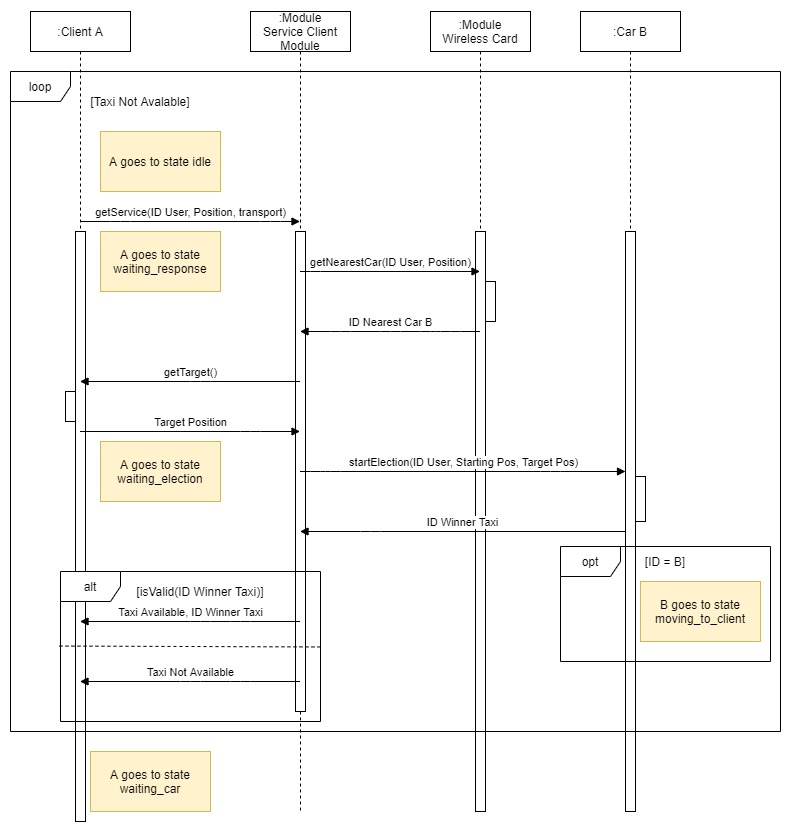
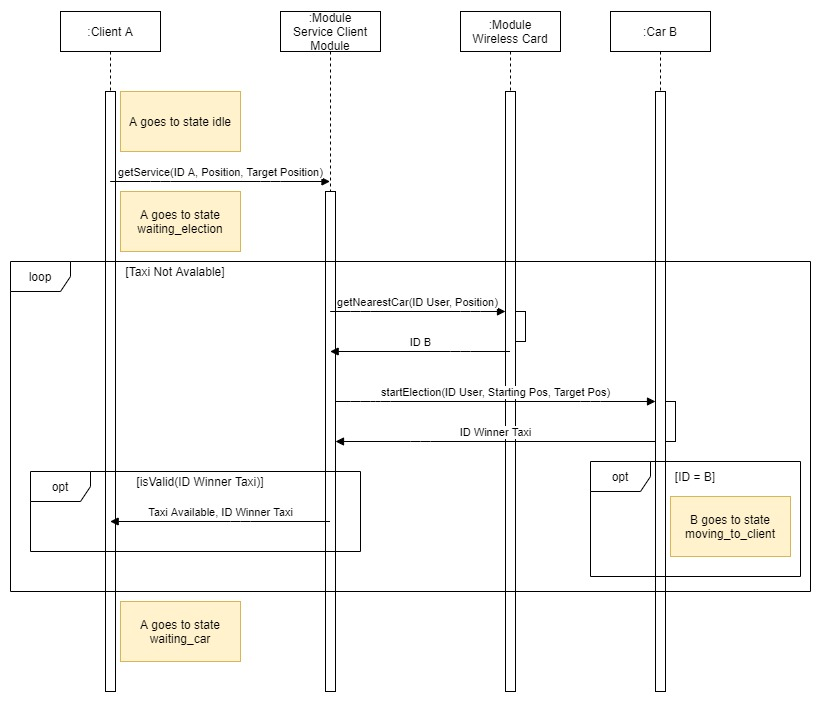
Gestione automi

diff --git a/relazione/progetto.tex b/relazione/progetto.tex
@@ -20,7 +20,7 @@ Qui di seguito sono descritti i vari moduli che si intende implementare per il p
 	
 	\item Modulo per l'invio di messaggi: controlla che il messaggio sia ben formato.
 	
-	\item Modulo interfaccia cliente-servizio: rappresenta l'app che utilizzerebbe l'utente per usufruire del servizio. In tal senso, fornisce le operazioni che un cliente può richiedere al sistema e comunica all'entità cliente gli eventuali messaggi.
+	\item Modulo interfaccia cliente-servizio: rappresenta l'app che utilizzerebbe l'utente per usufruire del servizio. In tal senso, fornisce le operazioni che un cliente può richiedere al sistema e comunica all'entità cliente gli eventuali messaggi.tre
 	
 	\item Modulo scheda wireless: simula la scheda di rete che fornisce i vicini dell'entità che ne invoca i metodi.
 	
@@ -215,8 +215,8 @@ L'aggiornamento può avvenire in diversi momenti e stati della macchina.
 All'appendice \ref{messaggi_scambiati_appendix}, sono presenti i diagrammi di sequenza dei messaggi che vengono scambiati tra i diversi moduli per permettere le funzionalità del sistema.
 
 \begin{itemize}
-	\item Movimento del taxi alla posizione dell'utente e successivo trasporto \ref{fig:messaggi_utente_trasporto}.
 	\item Richiesta da parte dell'utente del servizio di trasporto \ref{fig:messaggi_utente_chiede_macchina}.
+	\item Movimento del taxi alla posizione dell'utente e successivo trasporto \ref{fig:messaggi_utente_trasporto}.
 	\item Richiesta di cambiamento di destinazione da parte dell'utente mentre il taxi è in viaggio verso l'utente \ref{fig:messaggi_utente_cambio_direzione_waiting}.
 	\item Richiesta di cambiamento di destinazione da parte dell'utente mentre il taxi lo sta trasportando \ref{fig:messaggi_utente_cambio_direzione_moving}.
 	\item Partecipazione all'elezione di una macchina non iniziatrice \ref{fig:messaggi_macchina_partecipazione_elezione}. Poiché è possibile che la macchina si trovi in diversi stati mentre viene avviato l'algoritmo di elezione, sono stati rappresentati tre possibili scenari.
@@ -278,7 +278,6 @@ Sono stati individuati due insiemi di funzionalità che è necessario supportare
 \subsection{Funzionalità Base}
 
 \begin{enumerate}
-%	\item Panino alla guida
 	\item Comunicazione peer to peer per la leader election.
 	\item Richiesta dell'utente di trasporto.
 	\item Gestione della ricarica delle macchine.
@@ -293,7 +292,6 @@ Sono stati individuati due insiemi di funzionalità che è necessario supportare
 	\item Partecipazione della macchina già impegnata alla leader election.
 	\item Possibilità di rimuovere la prenotazione
 	\item Possibilità di cambiare destinazione anche se ci sono altri utenti nella coda della macchina candidata
-	\item Lista di possibili taxi in caso di pareggio tra i candidati.
 	\item Car sharing fino a tre persone.
 \end{itemize}
 
@@ -301,15 +299,13 @@ Sono stati individuati due insiemi di funzionalità che è necessario supportare
 Lo sviluppo dell'applicazione verrà suddiviso in diverse versioni via via estese con le nuove funzionalità. In particolare si seguirà questo ordine:
 
 \begin{enumerate}
-	\item Ogni macchina potrà parlare con tutte le altre macchine; l'utente invia la richiesta di trasporto alla macchina più vicina a lui; se un veicolo è impegnato con un cliente non partecipa alla selezione del leader per il trasporto; la comunicazione tra i veicoli è diretta, quindi ogni taxi può parlare con chiunque.
-	\item Vengono aggiunte le colonnine di ricarica, alle quali le macchine devono far rifornimento se hanno esaurito le batterie; le macchine possono guastarsi; l'utente può decidere di cambiare destinazione.
+	\item Ogni macchina potrà parlare con tutte le altre macchine; l'utente invia la richiesta di trasporto alla macchina più vicina a lui; se un veicolo è impegnato con un cliente non partecipa alla selezione del leader per il trasporto ma fa da ponte per i vicini; la comunicazione tra i veicoli è diretta, quindi ogni taxi può parlare con chiunque.
+	\item Vengono aggiunte le colonnine di ricarica, alle quali le macchine devono far rifornimento se stanno esaurendo le batterie; le macchine possono guastarsi; l'utente può decidere di cambiare destinazione.
 	\item Rottura delle strade ma senza disconnessione del grafo stradale.
-	\item Le connessioni tra le macchine possono perdere andare perse mentre si elegge il leader.
 	\item Le macchine possono comunicare solo con quelle vicine.
 	\item La macchina partecipa all'elezione anche se al momento è già impegnata, tuttavia si considera disponibile solo dopo aver compiuto il tragitto già attivo.
-	\item Implementazione del car-sharing fino a 3 clienti.
+	\item Le connessioni tra le macchine possono perdere andare perse mentre si elegge il leader.
 	\item Rimuovere prenotazione.
 	\item Cambio direzione anche se in lista.
-	\item Viene fornita al cliente una lista di possibili candidati vincitori.
-%	\item panino alla guida
+	\item Implementazione del car-sharing fino a 3 clienti.
 \end{enumerate}

diff --git a/relazione/appendici.tex b/relazione/appendici.tex
@@ -10,16 +10,16 @@
 
 \begin{figure}[htbp]
 	\centering
-	\includegraphics[width=10cm]{messaggi_utente_trasporto.jpg}
-	\caption{Messaggi scambiati per il trasporto dell'utente.}
-	\label{fig:messaggi_utente_trasporto}
+	\includegraphics[width=15cm]{messaggi_utente_chiede_macchina.jpg}
+	\caption{Messaggi scambiati per la richiesta di un trasporto.}
+	\label{fig:messaggi_utente_chiede_macchina}
 \end{figure}
 
 \begin{figure}[htbp]
 	\centering
-	\includegraphics[width=15cm]{messaggi_utente_chiede_macchina.jpg}
-	\caption{Messaggi scambiati per la richiesta di un trasporto.}
-	\label{fig:messaggi_utente_chiede_macchina}
+	\includegraphics[width=10cm]{messaggi_utente_trasporto.jpg}
+	\caption{Messaggi scambiati per il trasporto dell'utente.}
+	\label{fig:messaggi_utente_trasporto}
 \end{figure}
 
 \begin{figure}[htbp]
